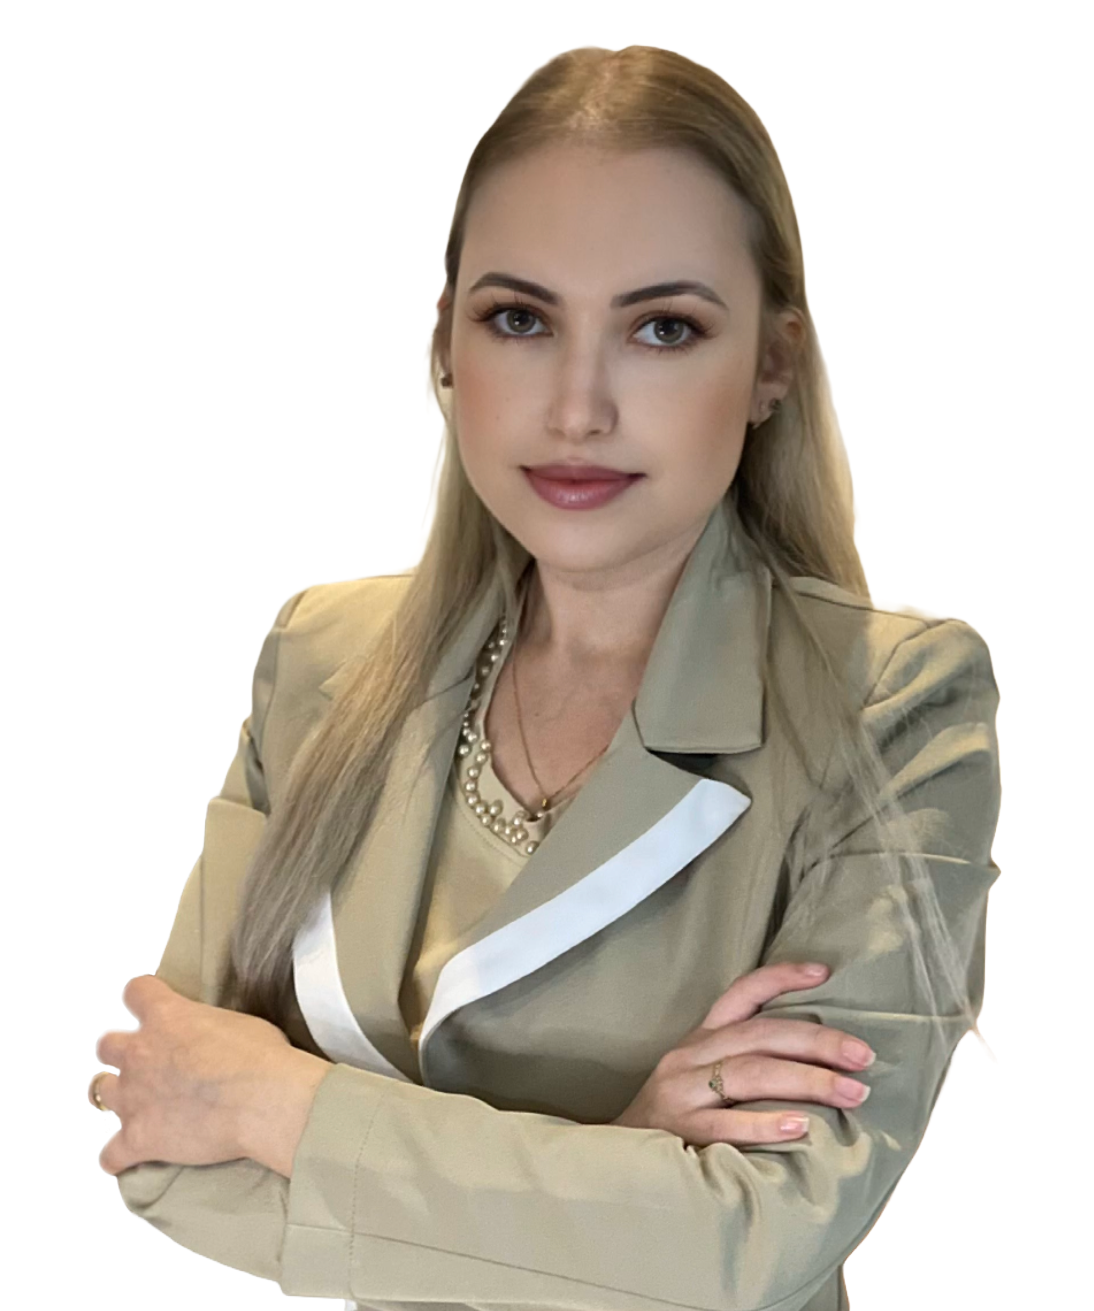
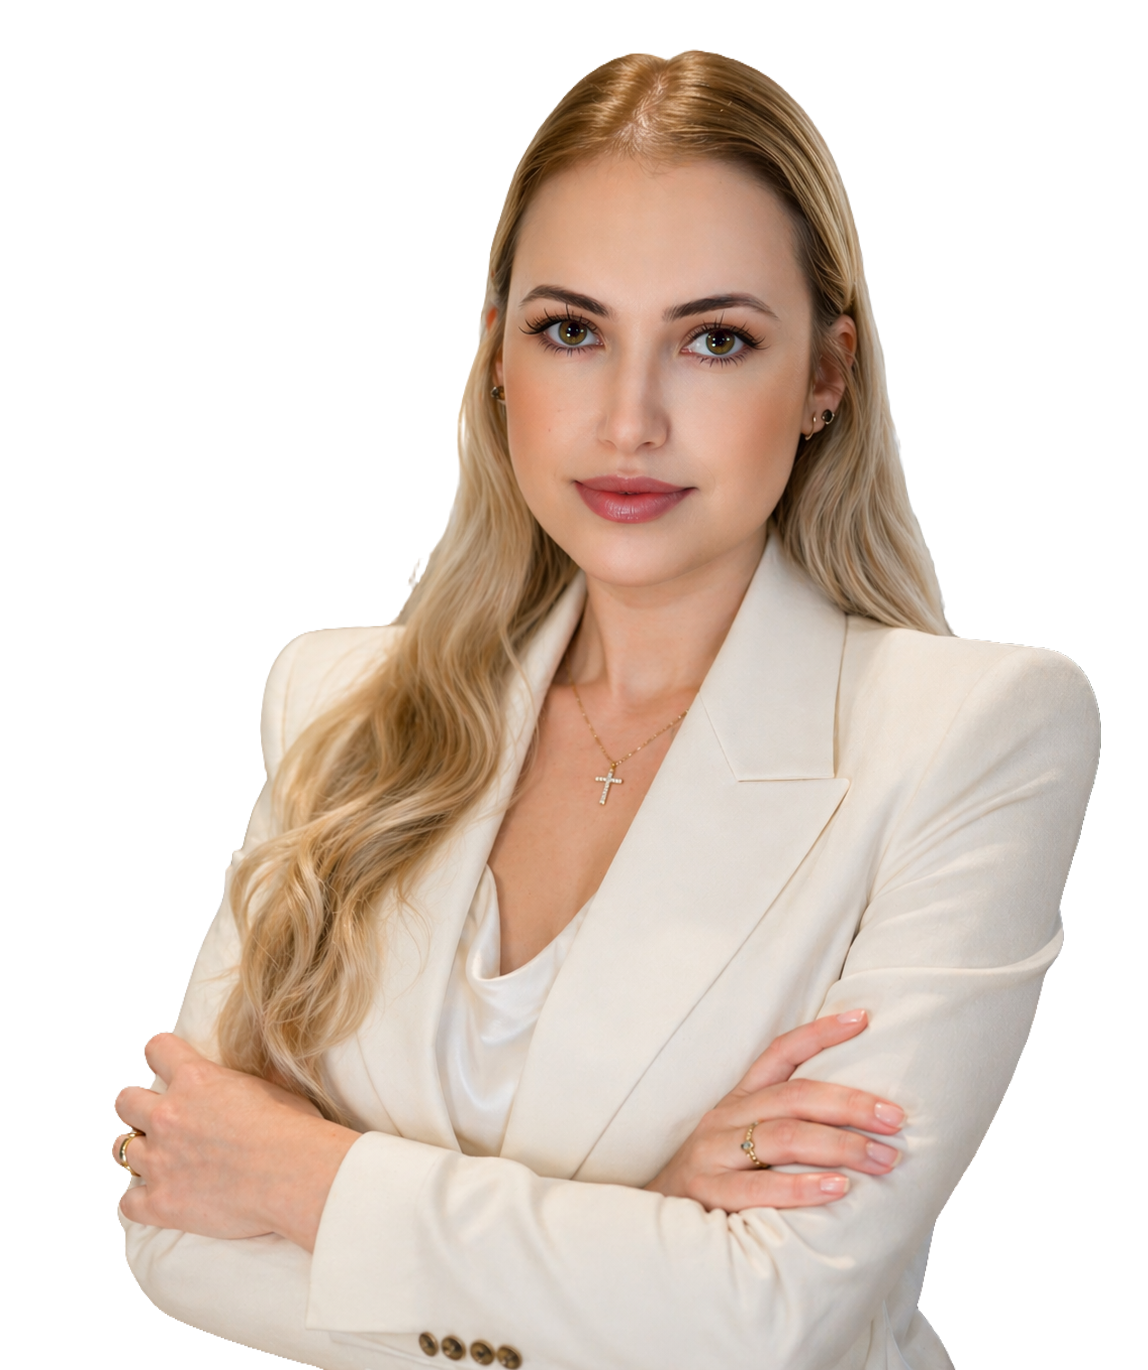
ajustes fotos

diff --git a/karin-site/src/components/WorkMethod.vue b/karin-site/src/components/WorkMethod.vue
@@ -30,7 +30,7 @@ const methods = [
         <!-- Left side illustration -->
         <div class="relative">
 
-          <img src="/images/consulta.webp" alt="Therapy session illustration" class="w-full h-full object-contain" />
+          <img src="/images/consulta.jpeg" alt="Therapy session illustration" class="w-full h-full object-contain" />
 
         </div>
 
